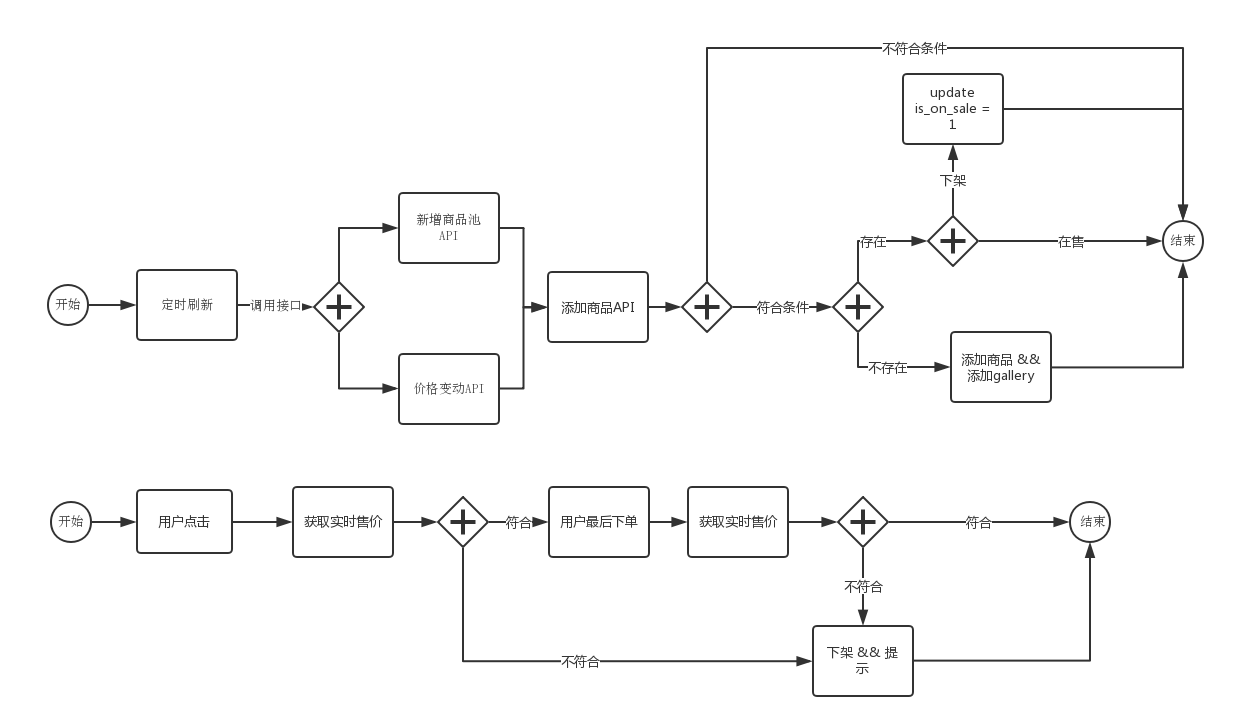
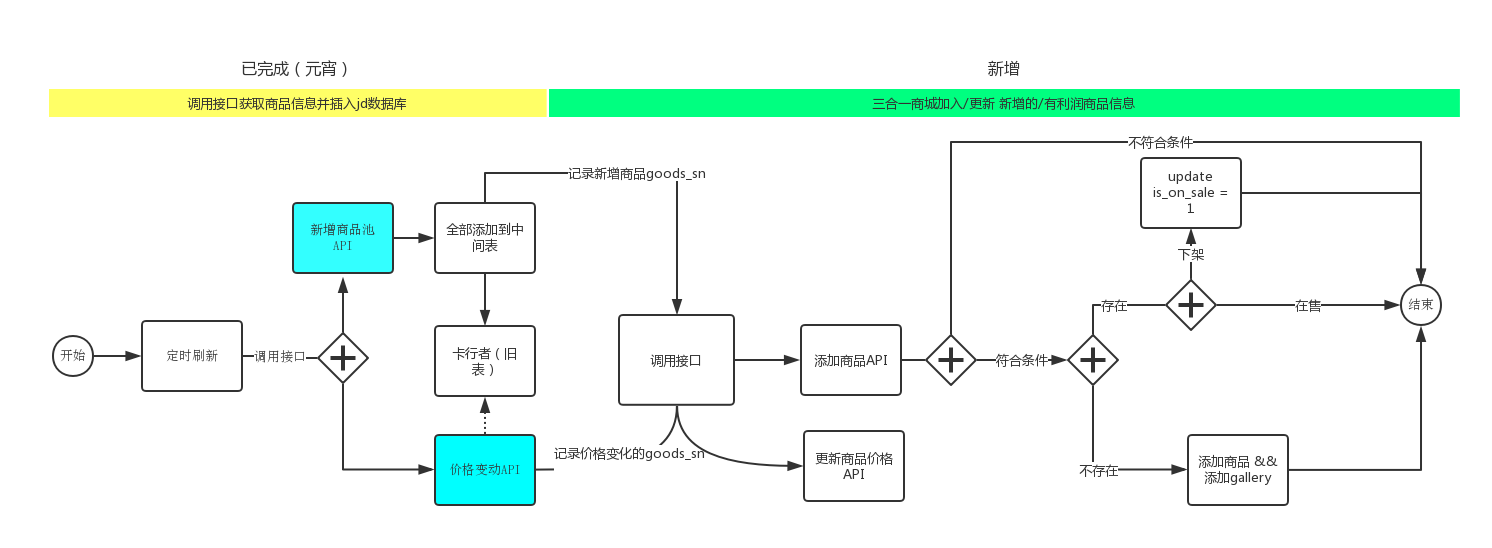
add_goods_process.md

diff --git a/_posts/work_record/2017-02-08-add-goods-process.md b/_posts/work_record/2017-02-08-add-goods-process.md
@@ -1,7 +1,7 @@
 ---
 layout: pureread
 title: "add goods process"
-modified:
+modified: 2017.02.13
 categories: work_record
 #excerpt:
 tags: [work]
@@ -15,9 +15,74 @@ date: 2017-02-08T15:15:15+08:00
 
 >add goods process
 
-## jd
+# goods
+
+
+## process
+
+#### 将京东，苏宁，一号店商品导入三合一
+> (ecs_goods,ecs_brand_new,ecs_category,ecs_goods_gallery)
+
+{% highlight c++ %}
+
+- 三合一商品总数 : 32417
+- jd : 26929  >>>>if (rate>=0.03 && fenxiao_price>0.1)
+- sn : 3013
+- yhd : 2457
+- 没有图片信息的商品个数 : 4632 (暂把 is_on_sale = 0)
+> /log/gallery_null.txt
+
+{% endhighlight %}
+
+#### 商品导入策略
+
+> jd 商品的加入和价格的更新，通过俩个接口来实现
+sn/yhd 扫描整个表，调用接口加入商品
+
+##### jd
+
+- 新增商品
 
 ![jd_add_goods_process](/images/work_log/add-flash_goods.png)
+
+##### sn / yhd
+
+- 调用接口
+
+{% highlight c++ %}
+
+//goods_info :sn/yhd商品信息(原来的商品库中取的信息)
+include "add_new_goods.php";
+$mt = new Meddle_trans;
+$re = $mt->sn_add_new_goods($goods_info);
+$re = $mt->yhd_add_new_goods($goods_info);
+if($re == 1){
+    print_r("ok"."\n");
+}
+{% endhighlight %}
+
+
+#### detail
+
+- 修改／增加了元宵的代码，所有修改地方加了注释 (//new add)
+
+> addNewProduct.php
+middle_db.php
+update_price.php
+
+- [add new code](https://github.com/NominationP/work_goods_sum/tree/report/add_new_goods){:target="_blank"}
+
+> jd/sn/yhd add new goods , update_price
+
+
+
+
+
+
+
+
+
+
 
 
 
